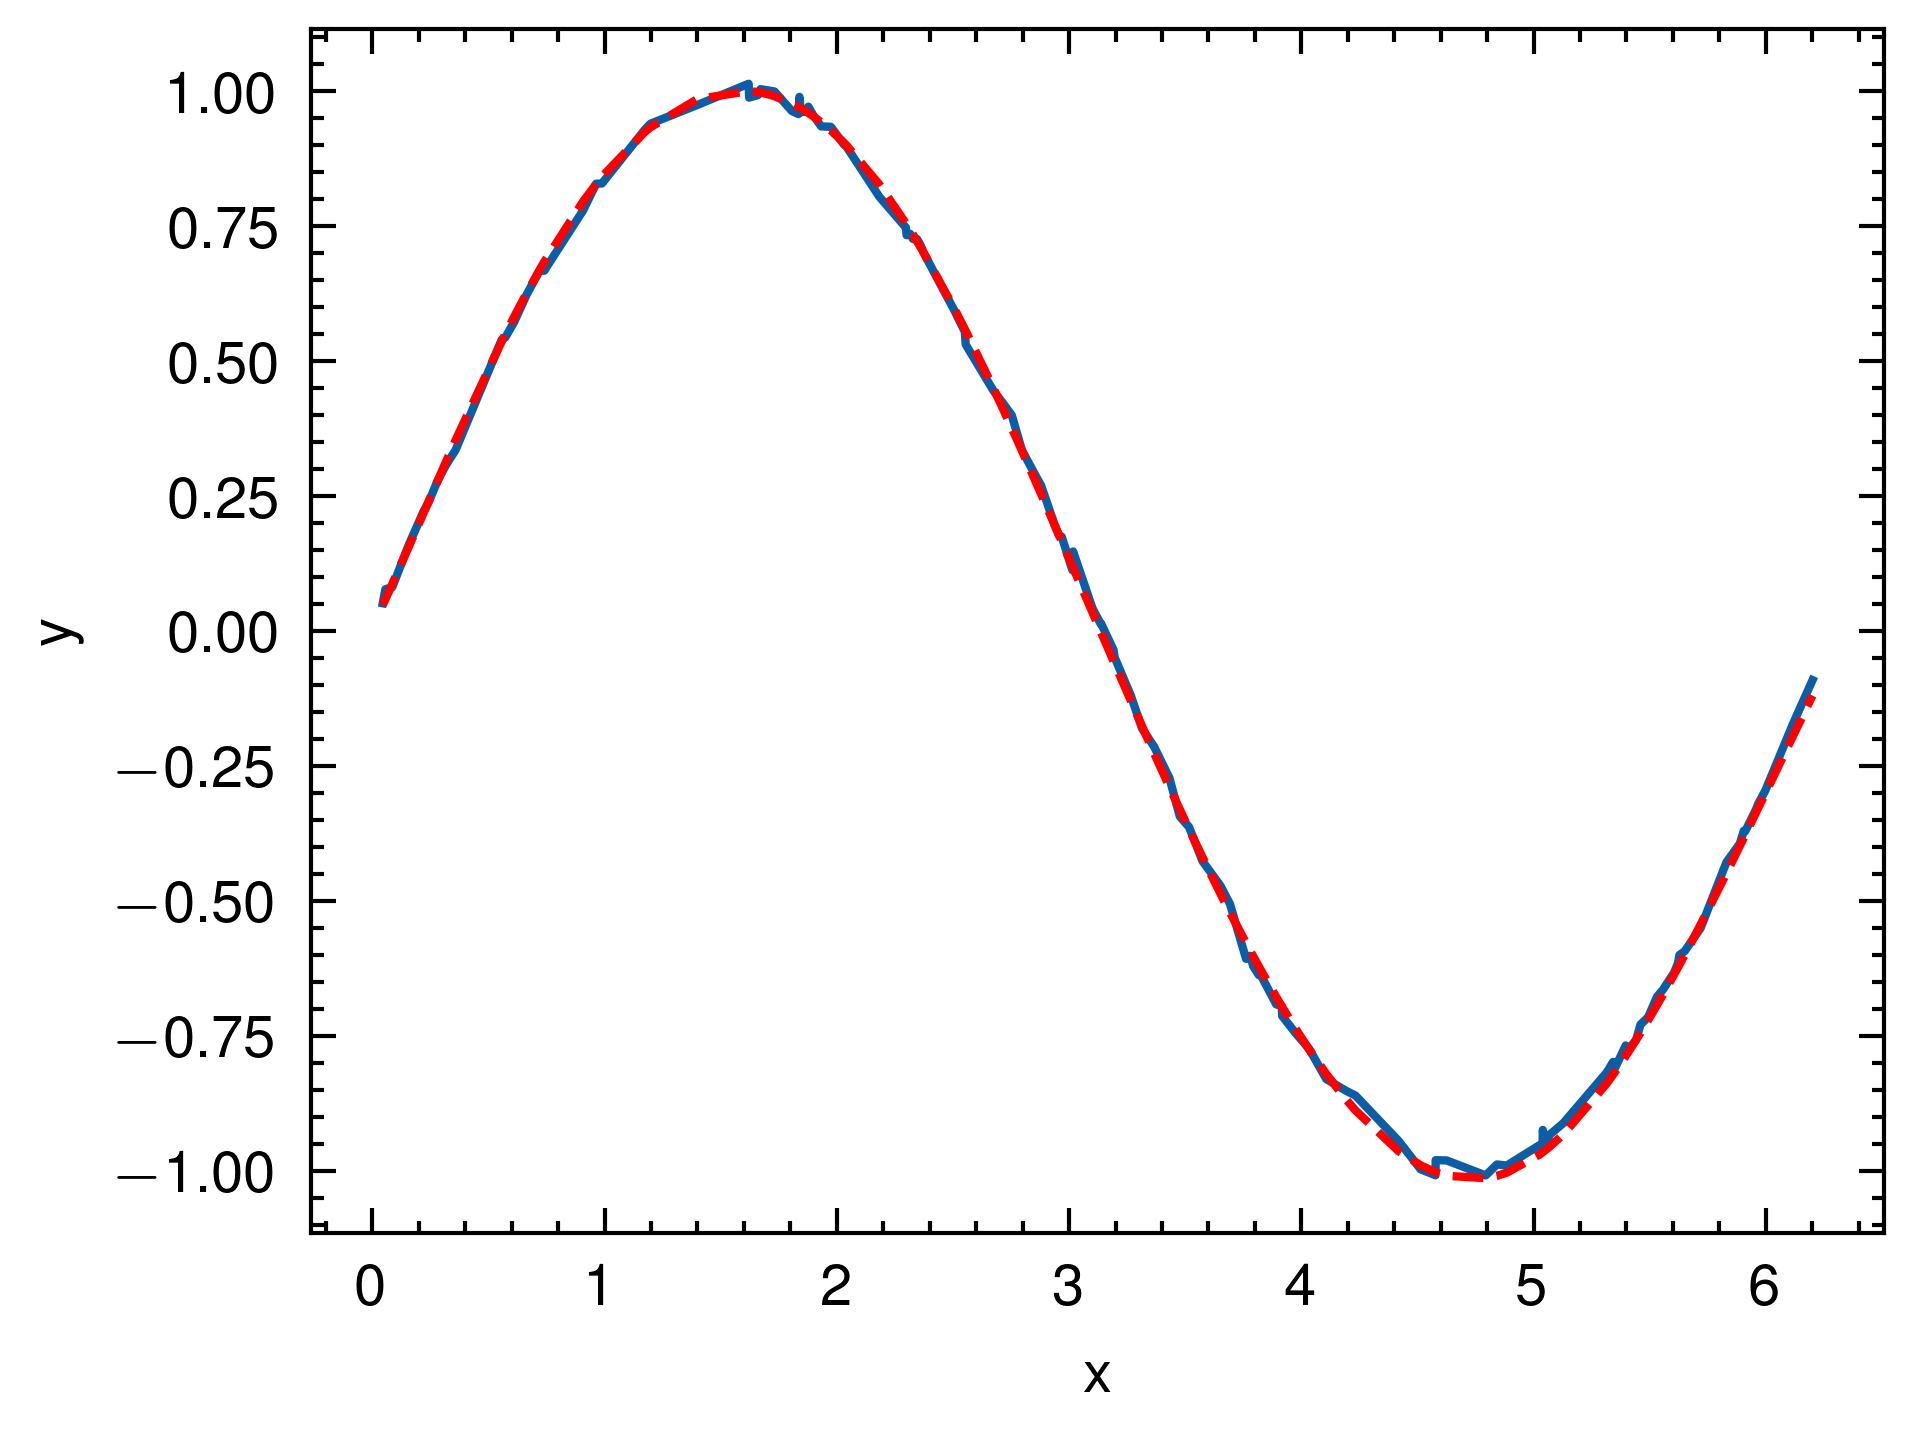
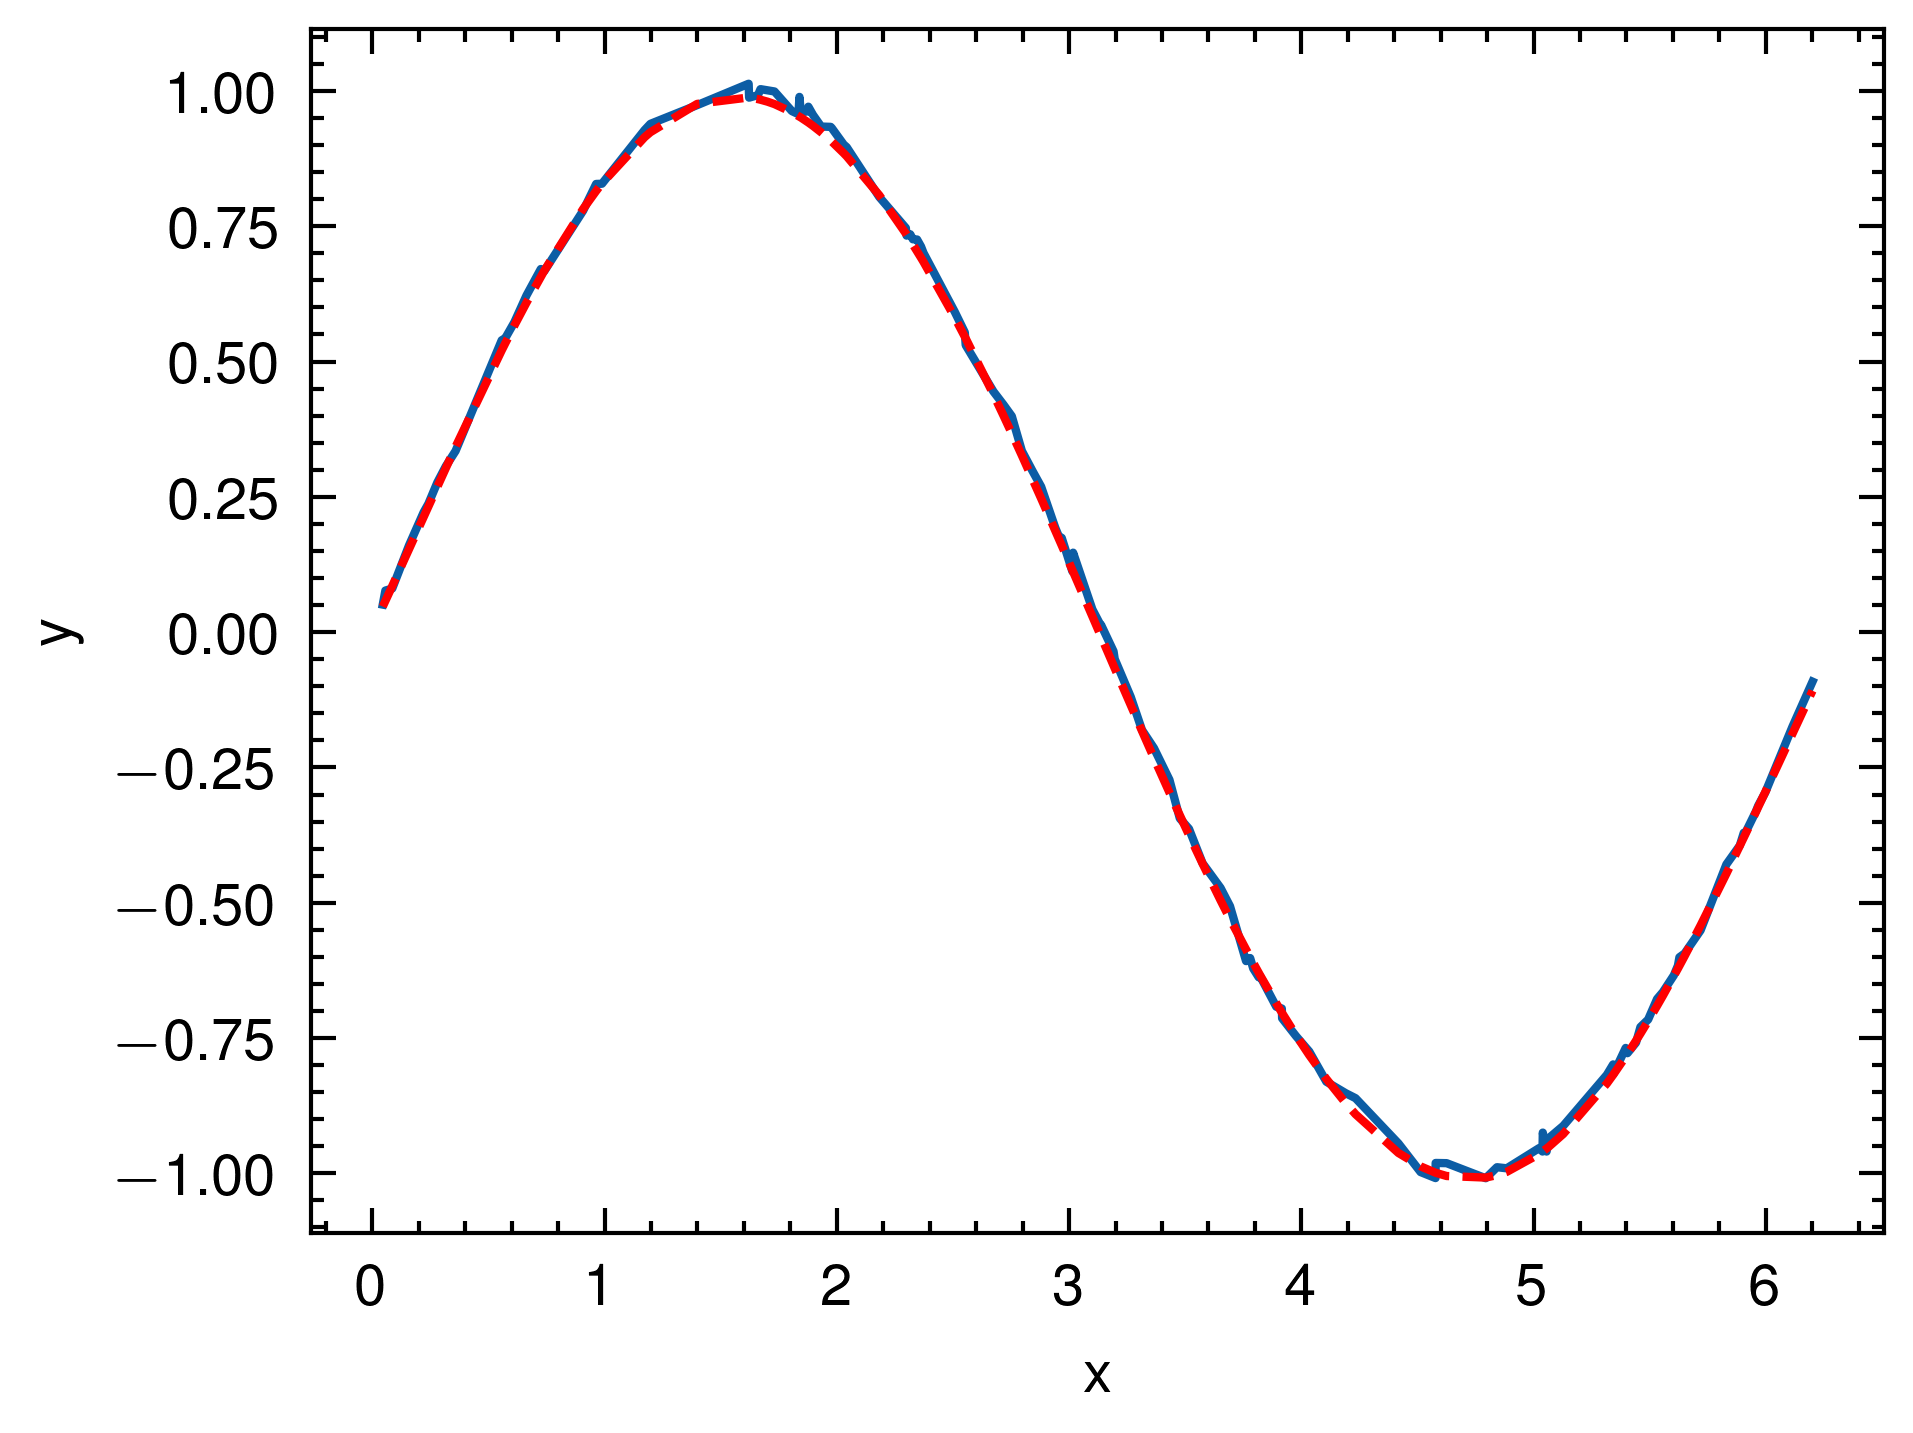
Remove extra bias

diff --git a/05_schedule.py b/05_schedule.py
@@ -53,7 +53,6 @@ def create_exp_hyperbolic_lr_schedule(upper_bound, max_iter, init_lr, infimum_lr
 
 class MLP(eqx.Module):
     layers: list
-    extra_bias: Array
 
     def __init__(self, sizes, key):
         keys = random.split(key, len(sizes)-1)
@@ -62,12 +61,11 @@ class MLP(eqx.Module):
             layers.append(eqx.nn.Linear(sizes[i], sizes[i + 1], key=key))
         layers.append(eqx.nn.Linear(sizes[-2], sizes[-1], key=keys[-1]))
         self.layers = layers
-        self.extra_bias = jnp.ones(sizes[-1])
 
     def __call__(self, x):
         for layer in self.layers[:-1]:
             x = jax.nn.gelu(layer(x))
-        return self.layers[-1](x) + self.extra_bias
+        return self.layers[-1](x)
 
 
 @jit

diff --git a/03_equinox.py b/03_equinox.py
@@ -10,7 +10,6 @@ import scienceplots
 
 class MLP(eqx.Module):
     layers: list
-    extra_bias: Array
 
     def __init__(self, sizes, key):
         keys = random.split(key, len(sizes)-1)
@@ -19,12 +18,11 @@ class MLP(eqx.Module):
             layers.append(eqx.nn.Linear(sizes[i], sizes[i + 1], key=key))
         layers.append(eqx.nn.Linear(sizes[-2], sizes[-1], key=keys[-1]))
         self.layers = layers
-        self.extra_bias = jnp.ones(sizes[-1])
 
     def __call__(self, x):
         for layer in self.layers[:-1]:
             x = jax.nn.gelu(layer(x))
-        return self.layers[-1](x) + self.extra_bias
+        return self.layers[-1](x)
 
 
 @jit

diff --git a/04_optax.py b/04_optax.py
@@ -14,7 +14,6 @@ import scienceplots
 
 class MLP(eqx.Module):
     layers: list
-    extra_bias: Array
 
     def __init__(self, sizes, key):
         keys = random.split(key, len(sizes)-1)
@@ -23,12 +22,11 @@ class MLP(eqx.Module):
             layers.append(eqx.nn.Linear(sizes[i], sizes[i + 1], key=key))
         layers.append(eqx.nn.Linear(sizes[-2], sizes[-1], key=keys[-1]))
         self.layers = layers
-        self.extra_bias = jnp.ones(sizes[-1])
 
     def __call__(self, x):
         for layer in self.layers[:-1]:
             x = jax.nn.gelu(layer(x))
-        return self.layers[-1](x) + self.extra_bias
+        return self.layers[-1](x)
 
 
 @jit
